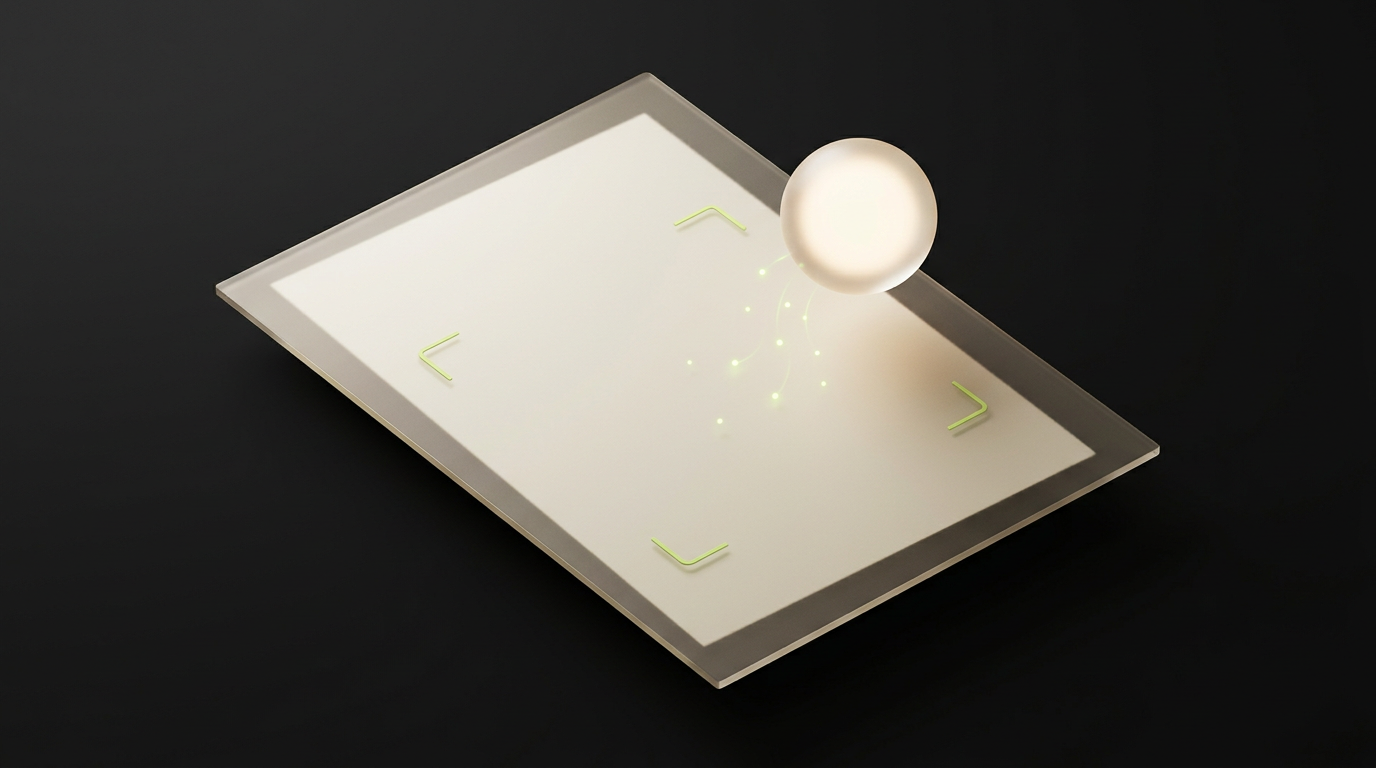
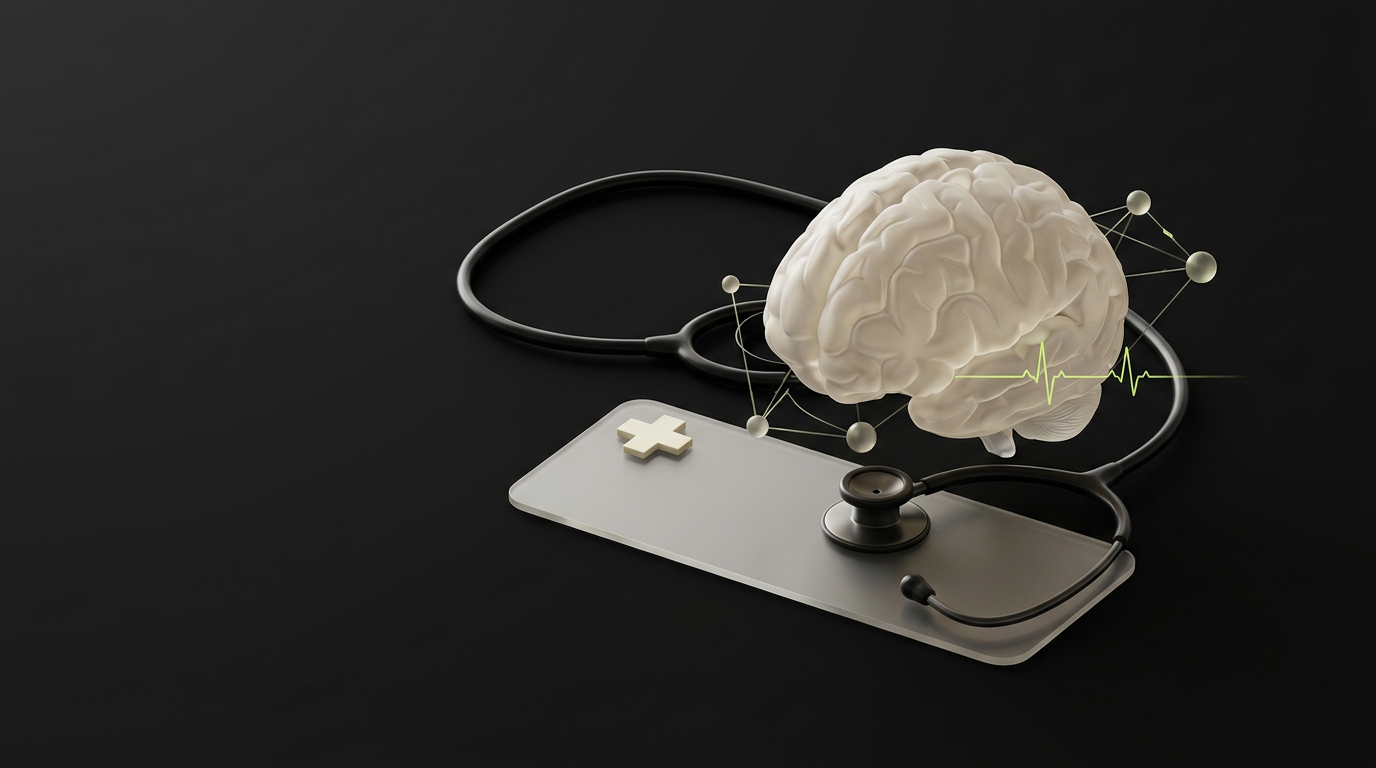
Separate featured and compact project sections

diff --git a/src/App.jsx b/src/App.jsx
@@ -102,7 +102,7 @@ const projects = [
   {
     title: "HealthAI",
     image: "/images/projects/healthai.png",
-    imageAlt: "Editorial illustration of a blank medical document and an AI data orb",
+    imageAlt: "Editorial still life of a stethoscope, anatomical brain model, medical cross, and AI neural network",
     featured: true,
     tech: "React, Express, Gemini API, Tesseract.js",
     description:
@@ -401,8 +401,8 @@ function App() {
               <h2 id="projects-heading" className="font-display text-4xl font-semibold tracking-[-0.06em] text-[#F5F3EC] sm:text-5xl lg:text-6xl">Featured projects.</h2>
             </div>
 
-            <div className="grid grid-cols-1 gap-8 md:grid-cols-2 lg:grid-cols-3 lg:gap-10">
-              {projects.map((project) => (
+            <div className="grid gap-8 md:grid-cols-2 lg:grid-cols-3 lg:gap-10">
+              {projects.filter((project) => project.featured).map((project) => (
                 <article
                   key={project.title}
                   className="group flex h-full flex-col rounded-[1.25rem] border border-[#383838] bg-[#292929] p-4 shadow-lg transition-transform duration-300 hover:-translate-y-1 hover:border-[#C7F36B]/60 sm:p-5"
@@ -431,6 +431,34 @@ function App() {
                     className="group/cta flex w-full items-center justify-center gap-2 rounded-full border border-[#383838] px-6 py-3 text-sm font-bold uppercase tracking-[0.12em] text-[#F5F3EC] transition-colors duration-300 hover:border-[#C7F36B] hover:text-[#C7F36B] focus-visible:outline-none focus-visible:ring-2 focus-visible:ring-[#C7F36B] focus-visible:ring-offset-2 focus-visible:ring-offset-[#292929]"
                   >
                     View on GitHub <ArrowUpRight size={16} className="transition-transform duration-300 group-hover/cta:translate-x-1 group-hover/cta:-translate-y-1" aria-hidden="true" />
+                  </a>
+                </article>
+              ))}
+            </div>
+          </div>
+        </section>
+
+        <section id="MoreProjects" className="scroll-mt-24 border-t border-[#383838] bg-[#151515] py-14 lg:py-20" aria-labelledby="more-projects-heading">
+          <div className="mx-auto max-w-7xl px-4 sm:px-6 lg:px-8">
+            <div className="mb-8">
+              <h2 id="more-projects-heading" className="font-display text-3xl font-semibold tracking-[-0.05em] text-[#F5F3EC] sm:text-4xl">More Projects</h2>
+            </div>
+            <div className="grid gap-6 md:grid-cols-2">
+              {projects.filter((project) => !project.featured).map((project) => (
+                <article
+                  key={project.title}
+                  className="group flex h-full flex-col rounded-xl border border-[#383838] bg-[#292929] p-6 transition-colors duration-300 hover:border-[#C7F36B]/60"
+                >
+                  <h3 className="mb-2 text-xl font-bold text-[#F5F3EC]">{project.title}</h3>
+                  <p className="mb-3 text-xs font-semibold uppercase leading-5 tracking-[0.1em] text-[#C7F36B]">{project.tech}</p>
+                  <p className="mb-6 flex-grow text-sm leading-relaxed text-[#92918B]">{project.description}</p>
+                  <a
+                    href={project.link}
+                    target="_blank"
+                    rel="noopener noreferrer"
+                    className="group/cta mt-auto flex w-full items-center justify-center gap-2 rounded-full border border-[#383838] px-6 py-3 text-sm font-bold uppercase tracking-[0.12em] text-[#F5F3EC] transition-colors duration-300 hover:border-[#C7F36B] hover:text-[#C7F36B] focus-visible:outline-none focus-visible:ring-2 focus-visible:ring-[#C7F36B] focus-visible:ring-offset-2 focus-visible:ring-offset-[#292929]"
+                  >
+                    GitHub <ArrowUpRight size={16} className="transition-transform duration-300 group-hover/cta:translate-x-1 group-hover/cta:-translate-y-1" aria-hidden="true" />
                   </a>
                 </article>
               ))}
